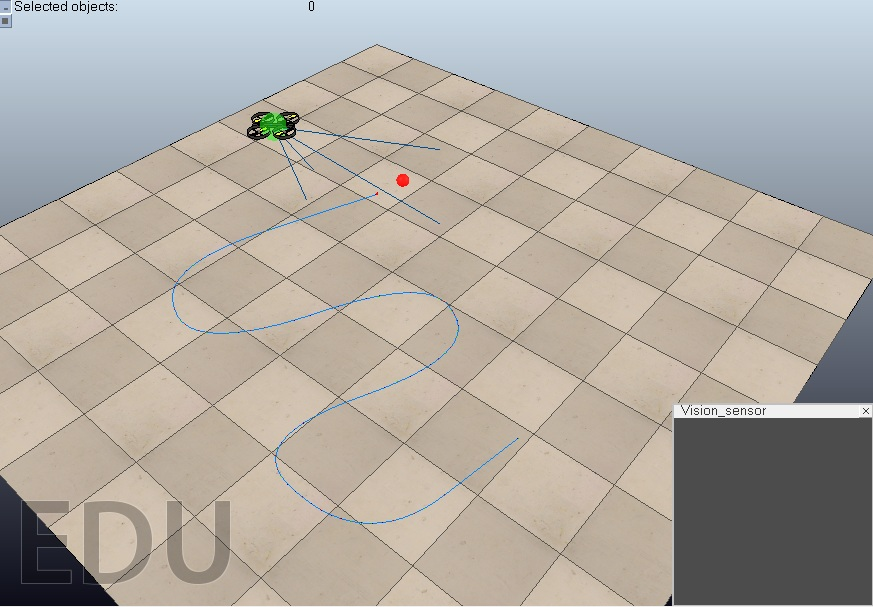
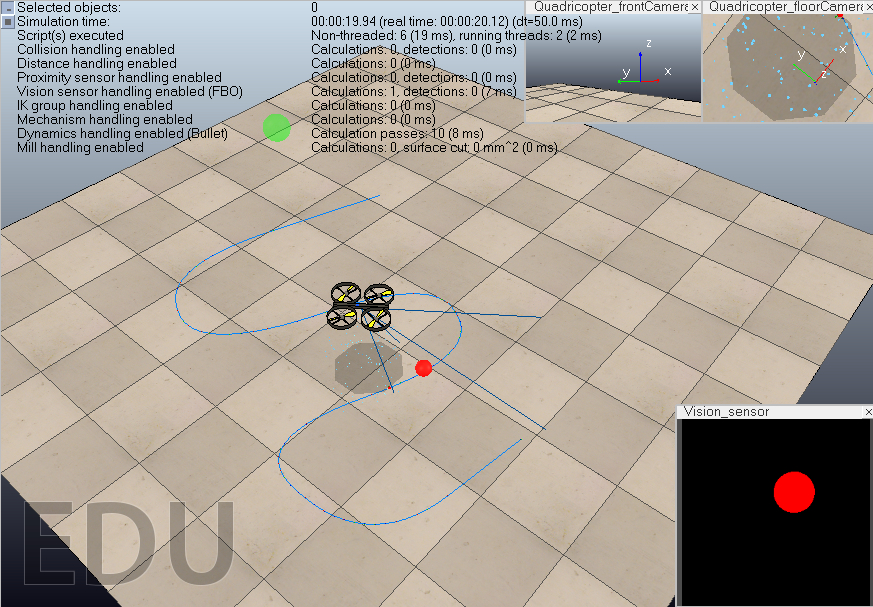
--> Modified images in c3 (online sim images) --> Various fixes --> Continued with 43

diff --git a/LatexFiles/c43_results.tex b/LatexFiles/c43_results.tex
@@ -114,9 +114,16 @@
 \subsection{Test with Odroid and Ground Station}
 	\label{test_with_odroid_and_GT}
 	
+	\begin{wrapfigure}{r}{0.5\linewidth}
+		\includegraphics[width=\linewidth]{../Images/c4/odroidu3}
+		\caption{Hardkernel Odroid u3}
+		\label{fig:odroidu3}
+	\end{wrapfigure}
+		
 	The result of this sections where obtained from two application. The first is the Ground Station application, which were running in the same computer of the previous section. This PC was connected to a local network (Router). The architecture of this app  was described in figure \ref{fig:GroundStation}
 	
 	The second application were running inside the onboard computer \ref{fig:Quadsoftware} connected by WiFi to the same network. Particularly, the onboard computer is a Hardkernel Odroid-u3 with the following characteristics:
+	
 	
 	\begin{itemize}
 		\item 1.7GHz Quad-Core processor 
@@ -129,9 +136,12 @@
 	
 	\subsubsection{Ground Tracking algorithm}
 	
-	The first test case was (As in previous sections), the tracking of a single ground target. The following table got the timing information of the process. It's important to mention that the application has the four different threads mentioned previously \ref{itemize:quadappthreads}.
+	The first test case was (As in previous sections), the tracking of a single ground target. The following table got the timing information of the process. It's important to mention that the application has the four different threads mentioned previously \ref{itemize:quadappthreads}. That means that unlike the previous section, the execution time is not sequential but parallel. So the complete process time is not the summarize of each process's time.
 	
+	Attending to the quadrotor's application, the following table gather some process's duration and it speed:
 	% 666 TODO: quitar el filtro de media del tratamiento que ralentiza mucho
+	\newline
+	\newline
 	{
 	\centering
 		\begin{tabular}{|c|c|c|c|c|c|}
@@ -141,7 +151,26 @@
 		\hline 
 		\end{tabular} 
 	}
-
+	\newline
+	
+	This second table gather the time information in the Ground Station application:
+	\newline
+	\newline
+	{
+	\centering
+		\begin{tabular}{|c|c|c|}
+		\hline  					&  comm		&  EKF step	\\
+		\hline  \textbf{time (ms)}	& 			& 			\\
+		\hline  \textbf{fps (1/s)}	&  			&  			\\
+		\hline 
+		\end{tabular} 
+	}
+	\newline
+	
+	The higher computational cost is in the quadcopter who is responsible of the image capture and segmentation. Due to the lower computational characteristics of the onboard pc the speed of the algorithm is slightly reduced.
+	
+	Finally, the following figure \ref{fig:arch_trajs} shows the original trajectory and the tracked one. %666 TODO info losement????
+	
 	\begin{figure}[ph]
 		\centering
 		\includegraphics[width=\linewidth]{../Images/c4/arch_trajs}

diff --git a/LatexFiles/c23_Matching_Algorithm.tex b/LatexFiles/c23_Matching_Algorithm.tex
@@ -49,7 +49,7 @@ Given the definition of these points, the segment $\overline{P_1P_2}$ will be: \
 \end{equation}
 
 
-The minimal distance is defined as the length of the segment perpendicular to both lines. Mathematically, $\overline{P_1P_2} * u1 = 0$ and $\overline{P_1P_2} * u2 = 0$. Operating with both equations:
+The minimal distance is defined as the length of the perpendicular segment to both lines. Mathematically, $\overline{P_1P_2} * u1 = 0$ and $\overline{P_1P_2} * u2 = 0$. Operating with both equations:
 
 \begin{align}
 s = \frac{\frac{u_2 * u_2}{u_2 * u_1}*(P_2 - P_1) * u_1 - (P_2 - P_1) * u_2}{\frac{u_2 * u_2}{u_2 * u_1}(u_1 * u_1) - u_1*u_2}	\\

diff --git a/LatexFiles/c32_ImplementationVREP.tex b/LatexFiles/c32_ImplementationVREP.tex
@@ -224,9 +224,9 @@ This simulation is the first one with two quadcopters. The Red sphere is moving 
 
 
 
-\begin{figure}[t]
+\begin{figure}[hp]
 	\centering
-	\begin{subfigure}{0.6\linewidth}
+	\begin{subfigure}{0.45\linewidth}
 		\centering
 		\includegraphics[width=\linewidth]{../Images/c3/sim4_3dtraj}
 		\caption{Multiple Targets - 3D trajectory}

diff --git a/LatexFiles/PFC.tex b/LatexFiles/PFC.tex
@@ -44,7 +44,7 @@
 
 % First Page.
 \frontmatter
-\title{Undergraduate Final Degree Project \\ Design, Development and Implementation of Tracking Algorithm}
+\title{Undergraduate Final Degree Project \\ Development and Implementation of a Tracking Algorithm using Unmanned Aerial Vehicles}
 \author{Pablo Ram\'on Soria}
 \date{2014-07-16}
 \maketitle
